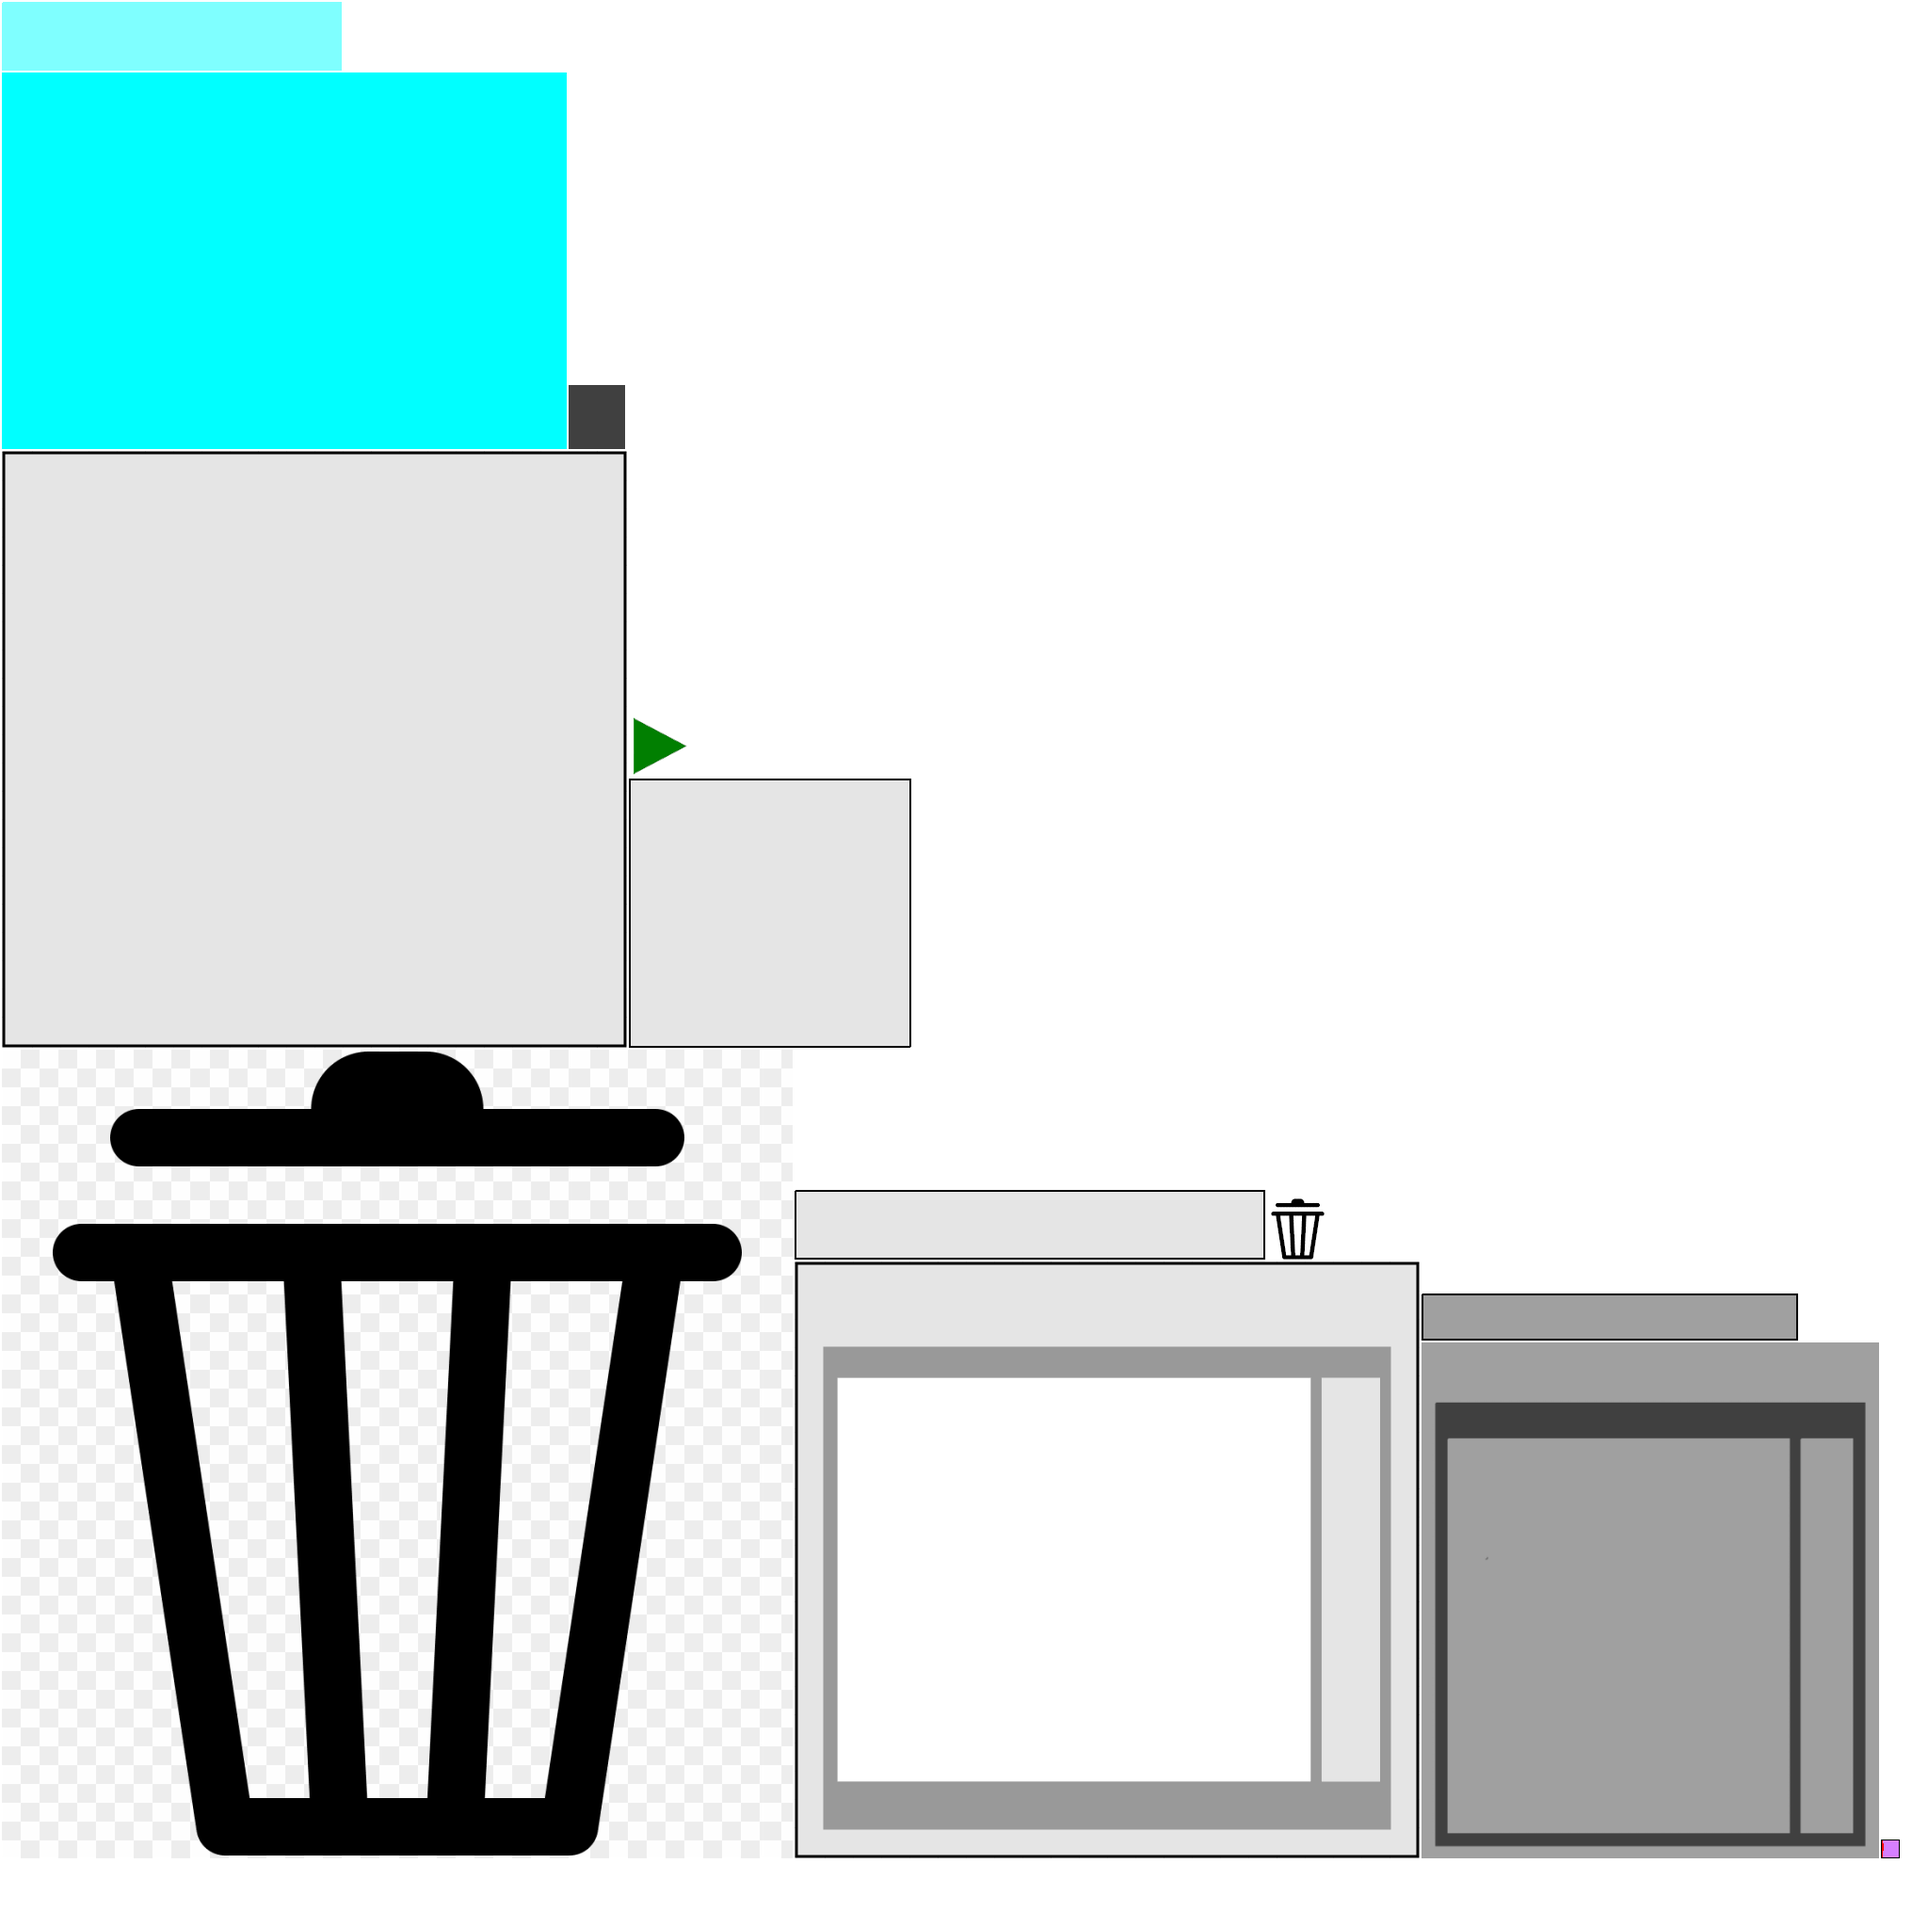
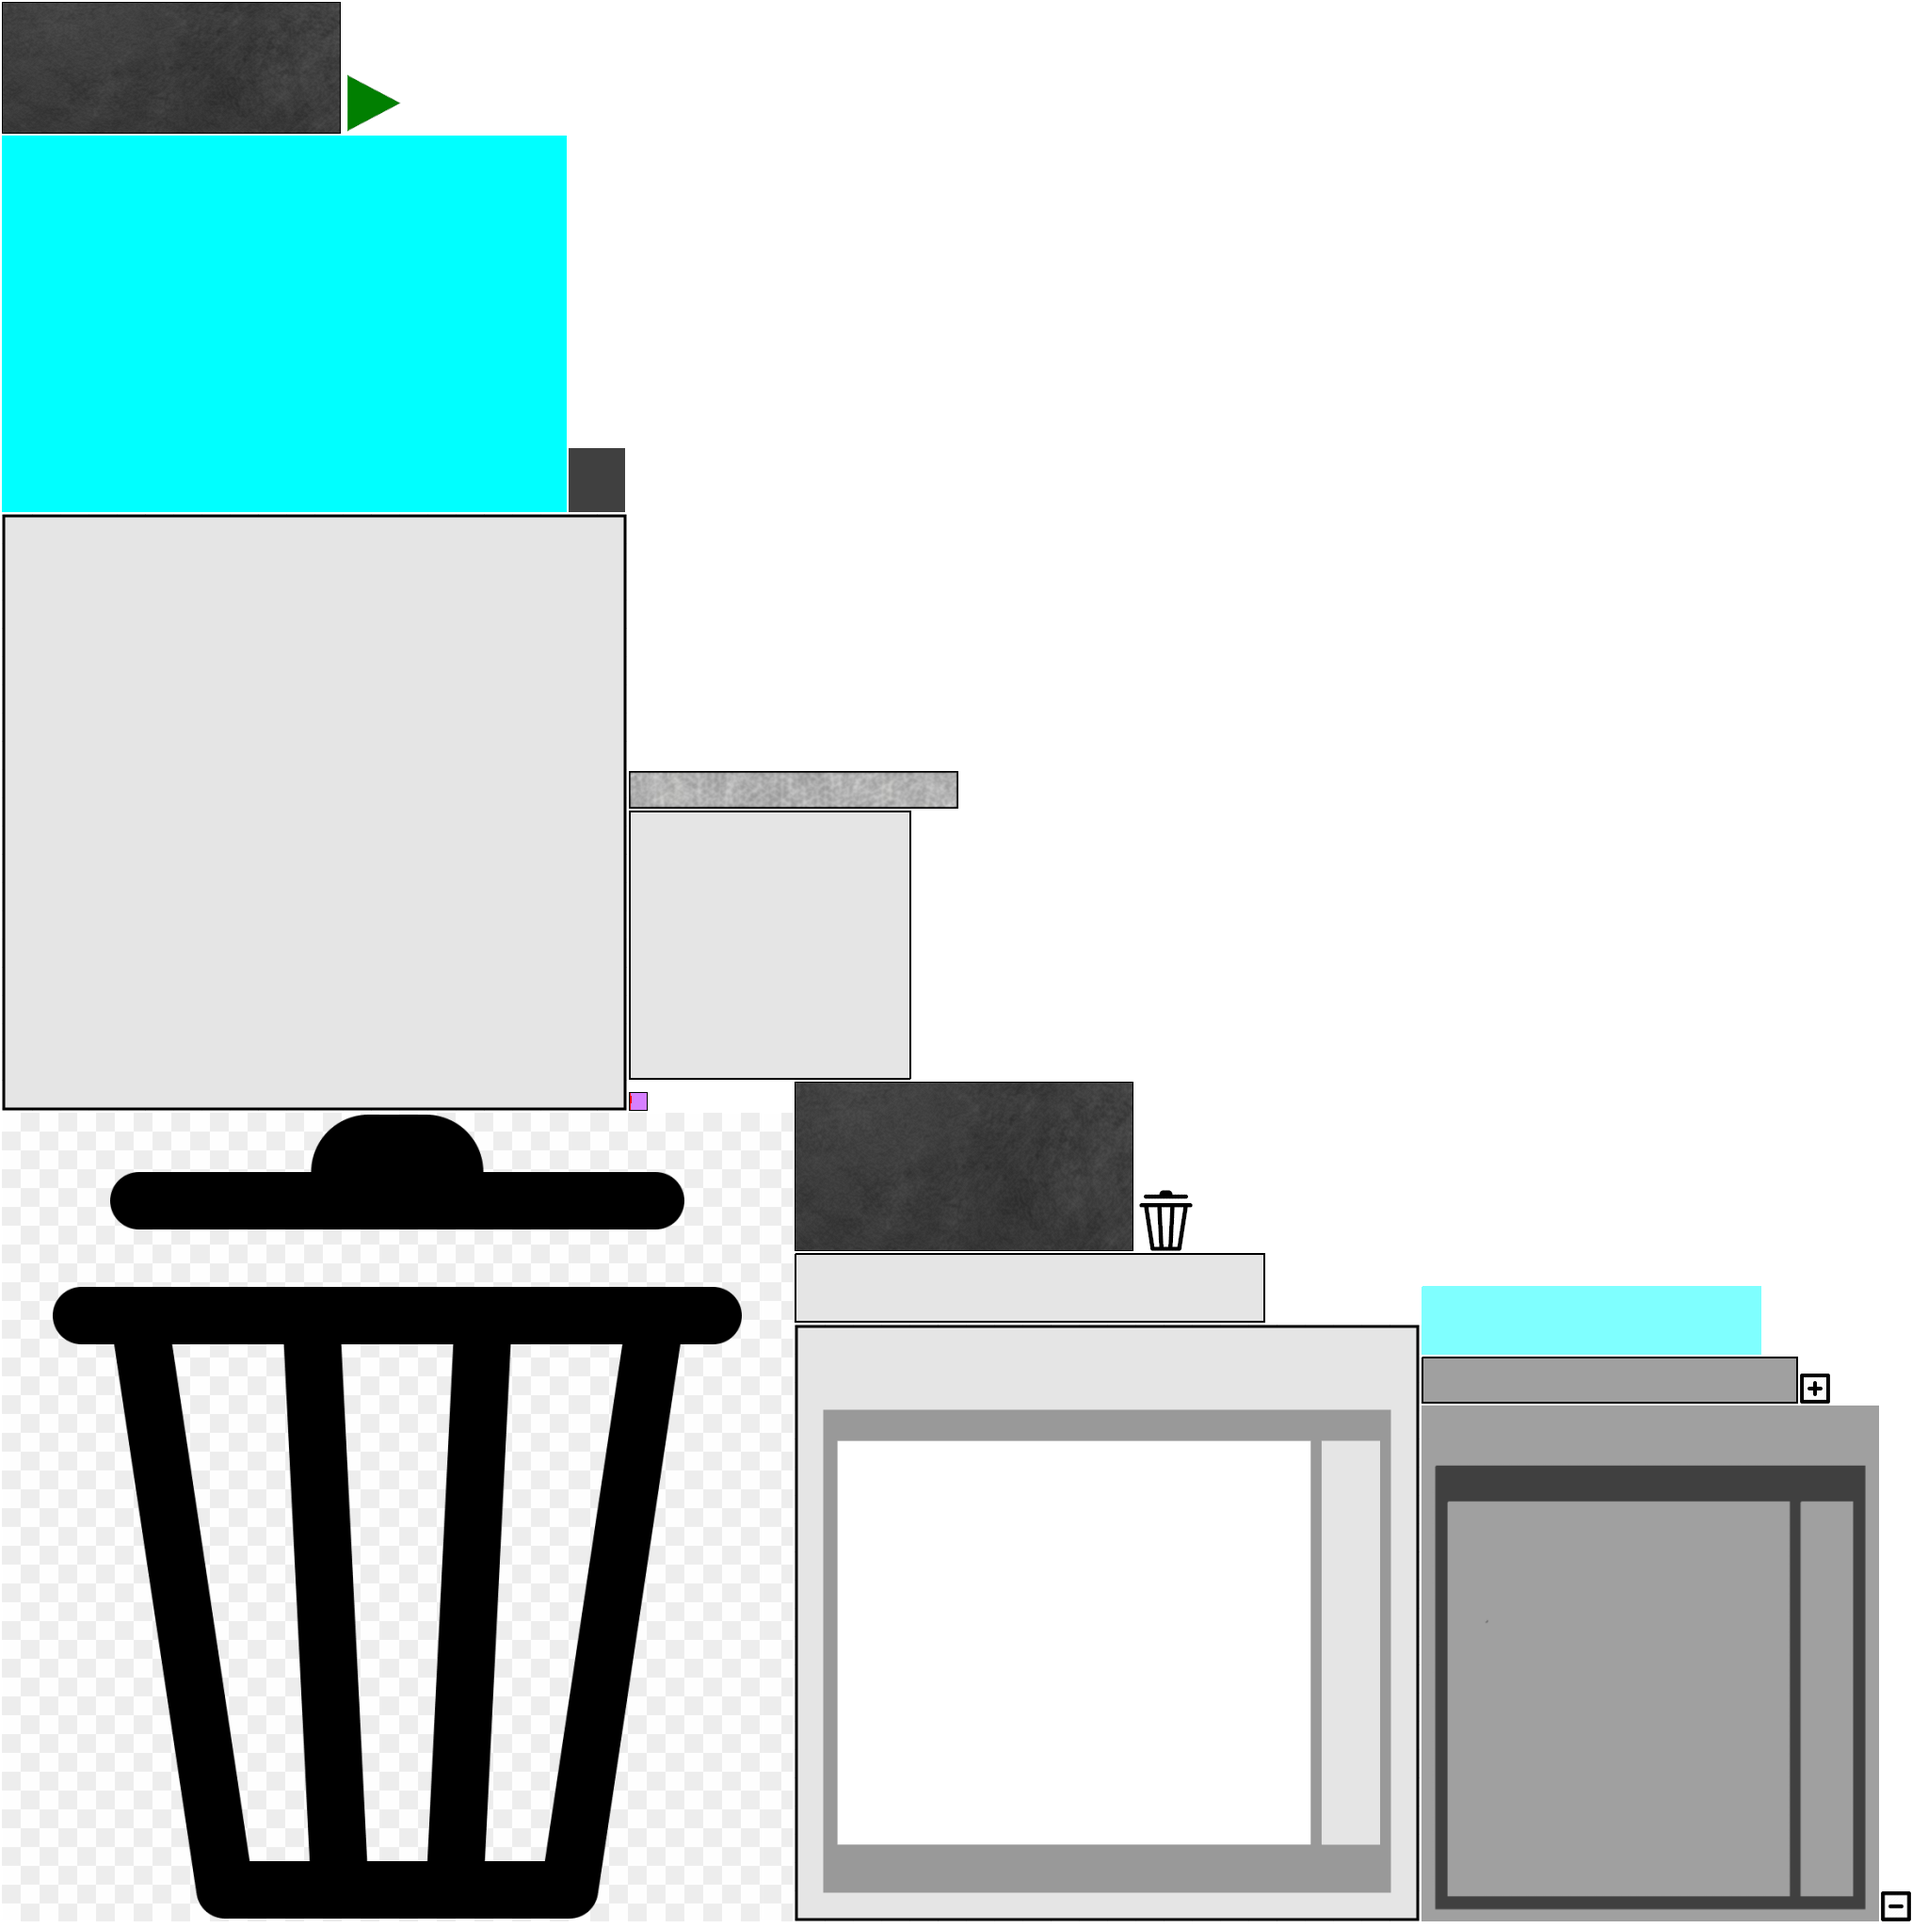
more menu stuff

diff --git a/core/src/gameCode/Menus/NewGame.java b/core/src/gameCode/Menus/NewGame.java
@@ -7,28 +7,65 @@ import gameCode.Infastructure.Component;
 import gameCode.Infastructure.Entity;
 import gameCode.Infastructure.InputAL;
 import gameCode.Infastructure.TextComponent;
+import gameCode.Utilities.MathUtils;
+import gameCode.Utilities.StringUtils;
 
 public class NewGame extends Component {
 
     private MenuItem background;
-
+    private MenuItem newName;
+    private MenuItem sizeSelect;
+    private MenuItem minus;
+    private MenuItem plus;
+    private TextComponent sizeText;
+    private int numChunks;
+    private int min, max;
 
 
     public NewGame() {
 
+
         type = "logic";
-        int padding = 5;
 
-        background = new MenuItem("[type: menu][name: background]", "areYouSureBackground", null, "[vertical: center][horizontal: center]", 0, 0, 0, 300, 286);
-        TextComponent title = new TextComponent("", 10, "[vertical: center][horizontal: left]", 0, 0);
-        TextInput newInput = new TextInput(title, 15);
+        int height = 43;
+        int start = 8;
+        numChunks = 10;
+        min = 10;
+        max = 30;
 
-        background.addText(title);
-        background.ent.addComponent(newInput);
+        background = new MenuItem("[type: menu][name: background]", "createGameBack", null, "[vertical: center][horizontal: center]", 0, 0, 0, 360, 140);
+        background.addText(new TextComponent("Create New World", 10, "[vertical: top][horizontal: center]", 0, 0));
+
+        newName = new MenuItem("[type: menu][name: newName]", "menuItem", background.treeNode, "[vertical: top][horizontal: center]", 0, start + 1*height, 1, 350, 40);
+        TextComponent textDisplay = new TextComponent("", 10, "[vertical: center][horizontal: left]", 60, 0);
+        TextInput textInput = new TextInput(textDisplay, 30);
+        newName.addText(new TextComponent("Name: ", 10, "[vertical: center][horizontal: left]", 10, 0));
+        newName.addText(textDisplay);
+        newName.ent.addComponent(textInput);
+
+        sizeSelect = new MenuItem("[type: menu][name: sizeSelect]", "menuItem", background.treeNode, "[vertical: top][horizontal: center]", 0, start + 2*height, 1, 350, 40);
+        sizeText = new TextComponent(StringUtils.toString(numChunks), 10, "[vertical: center][horizontal: center]", 0, 0);
+        sizeSelect.addText(new TextComponent("Size: ", 10, "[vertical: center][horizontal: left]", 10, 0));
+        sizeSelect.addText(sizeText);
+        minus = new MenuItem("[type: menu][name: minus]", "minus", sizeSelect.treeNode, "[vertical: center][horizontal: center]", -50, 0, 2, 32, 32);
+        plus = new MenuItem("[type: menu][name: plus]", "plus", sizeSelect.treeNode, "[vertical: center][horizontal: center]", 50, 0, 2, 32, 32);
     }
 
     public void update(Entity entity) {
 
+
+        //buttons
+        if(minus.isLeftClicked()) {
+            numChunks--;
+            numChunks = MathUtils.clamp(numChunks, min, max);
+            sizeText.text = StringUtils.toString(numChunks);
+        }
+
+        if(plus.isLeftClicked()) {
+            numChunks++;
+            numChunks = MathUtils.clamp(numChunks, min, max);
+            sizeText.text = StringUtils.toString(numChunks);
+        }
 
 
     }

diff --git a/core/src/gameCode/Menus/MainMenu.java b/core/src/gameCode/Menus/MainMenu.java
@@ -18,46 +18,32 @@ public class MainMenu extends Component {
 
 
     private MenuItem background;
-    private MenuItem newGame;
-
+    private MenuItem createGame;
+    private MenuItem loadGame;
+    private MenuItem options;
 
     public MainMenu() {
+
         type = "logic";
 
+        int height = 43;
+        int start = 5;
 
+        background = new MenuItem("[type: menu][name: background]", "mainMenuBack", null, "[vertical: center][horizontal: center]", 0, 0, 0, 360, 180);
+        background.addText(new TextComponent("Main Menu", 10, "[vertical: top][horizontal: center]", 0, 0));
 
-        /*
-        int padding = 5;
-        int yOff = padding + 50;
+        createGame = new MenuItem("[type: menu][name: createGame]", "menuItem", background.treeNode, "[vertical: top][horizontal: center]", 0, start + 1*height, 1, 350, 40);
+        createGame.addText(new TextComponent("Create New World", 10, "[vertical: center][horizontal: center]", 0, 0));
 
+        loadGame = new MenuItem("[type: menu][name: loadGame]", "menuItem", background.treeNode, "[vertical: top][horizontal: center]", 0, start + 2*height, 1, 350, 40);
+        loadGame.addText(new TextComponent("Load World", 10, "[vertical: center][horizontal: center]", 0, 0));
 
-        //background
-        background = new MenuItem("[type: menu][name: background]", "background", null, "[vertical: center][horizontal: center]", 0, 0, 600, 400);
-
-        //newGame
-        newGame = new MenuItem("[type: menu][name: newGame]", "menuBack", background.treeNode, "[vertical: top][horizontal: center]", 0, padding, 400, 50);
-        newGame.addText(new TextComponent("New Game", 10, "center", 0, 0));
-
-         */
-
-
-        /*
-
-        test = new MenuItem("[type: menu][name: test]", "tile", background, "[vertical: center][horizontal: center]", 0, 0, 20, 20);
-
-        loadGame = new MenuItem("[type: menu][name: loadGame]", "menuBack", background, "[vertical: top][horizontal: center]", 0, padding + yOff, 400, 50, new TextComponent("Load Game", 10, "center", 0, 0));
-        options = new MenuItem("[type: menu][name: options]", "menuBack", background, "[vertical: top][horizontal: center]", 0, padding + 2*yOff, 400, 50, new TextComponent("Options", 10, "center", 0, 0));
-
-         */
+        options = new MenuItem("[type: menu][name: options]", "menuItem", background.treeNode, "[vertical: top][horizontal: center]", 0, start + 3*height, 1, 350, 40);
+        options.addText(new TextComponent("Options", 10, "[vertical: center][horizontal: center]", 0, 0));
     }
 
     public void update(Entity entity) {
 
-        //update everything ==============================================
-        //if(newGame.isLeftClicked()) { State.deleteMenuItems(); World.setCurrentState("newGame"); }
-
-        //MenuItem bc = (MenuItem)background.value;
-        //bc.setXOffset( bc.getXOffset() + 1);
 
 
     }

diff --git a/core/src/gameCode/Infastructure/TextComponent.java b/core/src/gameCode/Infastructure/TextComponent.java
@@ -10,7 +10,7 @@ public class TextComponent extends Component {
 
     public String text;
     public int fontSize;
-    public int xPos, yPos;
+    public int yPos, xPos, xOffset, yOffset;
     public String justify;
 
     public TextComponent(String newText, int newFontSize, String newJustify, int newX, int newY) {
@@ -18,8 +18,8 @@ public class TextComponent extends Component {
         text = newText;
         fontSize = newFontSize;
         justify = newJustify;
-        xPos = newX;
-        yPos = newY;
+        xOffset = newX;
+        yOffset = newY;
     }
 
     public void update(Entity ent) {
@@ -28,14 +28,14 @@ public class TextComponent extends Component {
         String horizontal = StringUtils.getField(justify, "horizontal");
 
         //vertical
-        if(vertical.equals("center")) yPos = (int)(ent.y_pos + ent.getHeight()/2 + Graphics.getTextBounds(text, fontSize).y/2  );
-        if(vertical.equals("bottom")) yPos = (int)(ent.y_pos + Graphics.getTextBounds(text, fontSize).y);
-        if(vertical.equals("top")) yPos = (int)(ent.y_pos + ent.getHeight() - Graphics.getTextBounds(text, fontSize).y);
+        if(vertical.equals("center")) yPos = (int)(ent.y_pos + ent.getHeight()/2 + Graphics.getTextBounds(text, fontSize).y/2  ) + yOffset;
+        if(vertical.equals("bottom")) yPos = (int)(ent.y_pos + Graphics.getTextBounds(text, fontSize).y)+ yOffset;
+        if(vertical.equals("top")) yPos = (int)(ent.y_pos + ent.getHeight() - Graphics.getTextBounds(text, fontSize).y)+ yOffset;
 
         //horizontal
-        if(horizontal.equals("center")) xPos = (int)(ent.x_pos + ent.getWidth()/2 - Graphics.getTextBounds(text, fontSize).x/2  );
-        if(horizontal.equals("left")) xPos = (int)(ent.x_pos);
-        if(horizontal.equals("right")) xPos = (int)(ent.x_pos + ent.getWidth() - Graphics.getTextBounds(text, fontSize).x);
+        if(horizontal.equals("center")) xPos = (int)(ent.x_pos + ent.getWidth()/2 - Graphics.getTextBounds(text, fontSize).x/2  ) + xOffset;
+        if(horizontal.equals("left")) xPos = (int)(ent.x_pos) + xOffset;
+        if(horizontal.equals("right")) xPos = (int)(ent.x_pos + ent.getWidth() - Graphics.getTextBounds(text, fontSize).x) + xOffset;
     }
 
     //getters ====================================================================

diff --git a/core/src/gameCode/Infastructure/Graphics.java b/core/src/gameCode/Infastructure/Graphics.java
@@ -121,6 +121,11 @@ public class Graphics implements Disposable {
         addSprite("loadGamePlay");
         addSprite("loadGameDelete");
         addSprite("areYouSureBackground");
+        addSprite("mainMenuBack");
+        addSprite("menuItem");
+        addSprite("createGameBack");
+        addSprite("minus");
+        addSprite("plus");
 
 
         //set up the tile atlas ==================================================================
@@ -217,7 +222,8 @@ public class Graphics implements Disposable {
                 for(Component comp: textComps) {
                     TextComponent text = (TextComponent)comp;
                     if(text != null) {
-                        font.setColor(0.0f, 0.0f, 0.0f, 1.0f);
+
+                        font.setColor(1.0f, 1.0f, 0.0f, 1.0f);
                         font.draw(hudBatch, text.getText(), text.getXPos(), text.getYPos());
                     }
                 }
